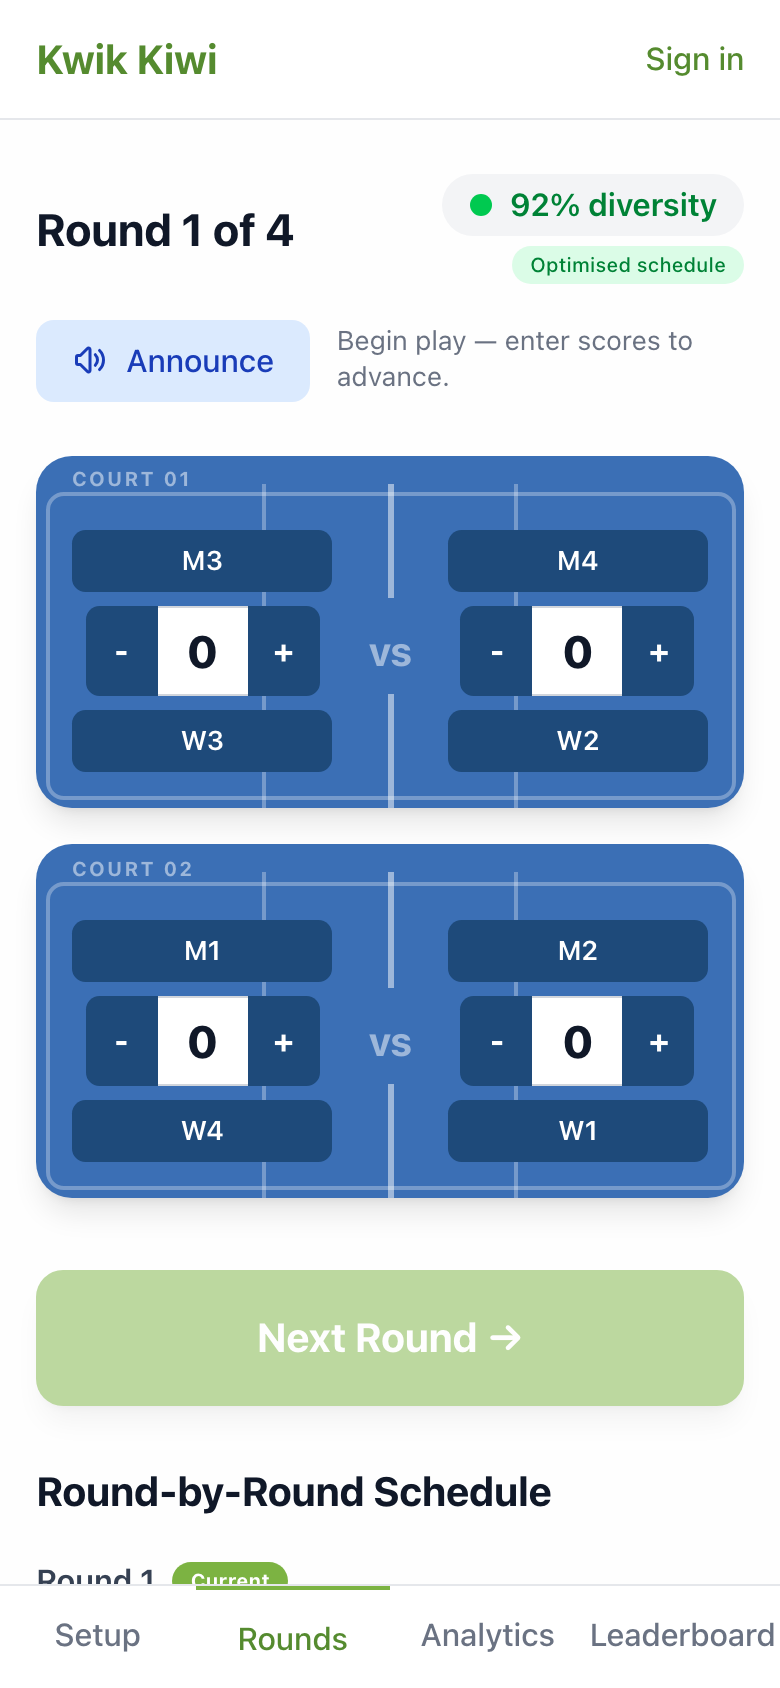
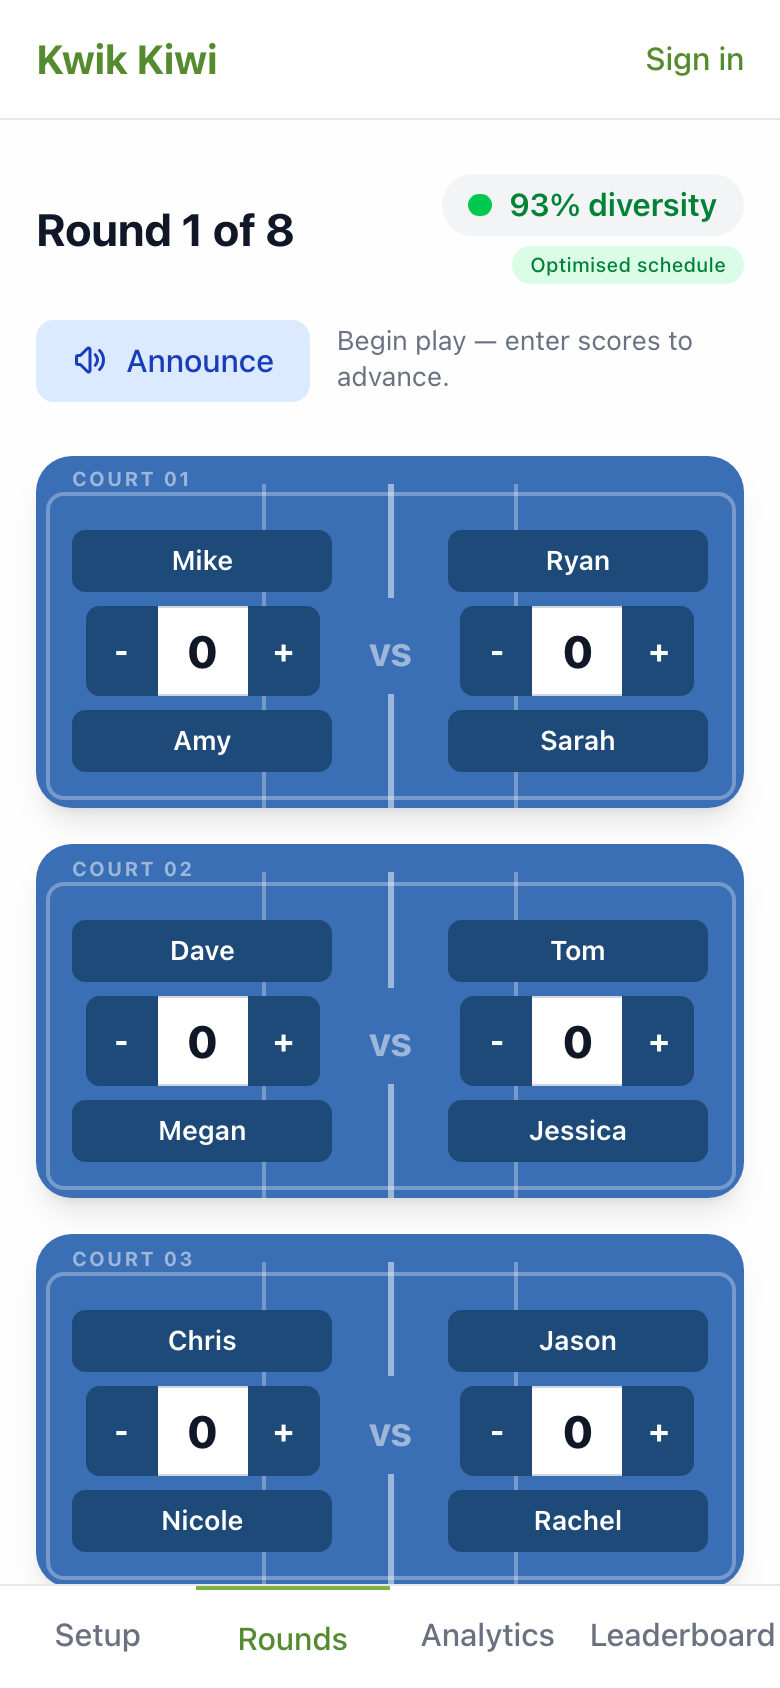
Add Kwik Kiwi screenshots: splash, roster, leaderboard, partner matrix, optimality

diff --git a/README.md b/README.md
@@ -13,12 +13,21 @@ Most of my code lives in private repos. Source is available on request.
 **[Try it live](https://quick-kiwi-round-robin.vercel.app)**
 
 <p>
-  <img src="images/kwik-kiwi-rounds.png" width="240" alt="Kwik Kiwi round view with court cards and scoring">
-  &nbsp;
-  <img src="images/kwik-kiwi-analytics.png" width="240" alt="Kwik Kiwi schedule analytics">
+  <img src="images/kwik-kiwi-splash.jpg" width="190" alt="Kwik Kiwi splash screen">
+  <img src="images/kwik-kiwi-roster.png" width="190" alt="Pasted roster with automatic gender sorting; uncertain names flagged">
+  <img src="images/kwik-kiwi-rounds.png" width="190" alt="Round view with court cards and scoring">
+  <img src="images/kwik-kiwi-leaderboard.png" width="190" alt="Live leaderboard">
 </p>
 
 Builds round-robin schedules that maximize partner and opponent variety. For mixed doubles with prime-power player counts, a Galois field construction guarantees every man partners with every woman exactly once. For other counts and open doubles, simulated annealing searches partnerships and court groupings together.
+
+<img src="images/kwik-kiwi-partner-matrix.png" width="560" alt="Partner frequency matrix, all ones">
+
+*8 men, 8 women, 8 rounds: every man partners every woman exactly once.*
+
+<img src="images/kwik-kiwi-optimality.png" width="560" alt="Schedule optimality breakdown">
+
+*Every schedule is scored on partner and opponent variety, and the app shows exactly where it falls short.*
 
 - Runs a local game offline, or a public tournament that players join from their phones by code or QR
 - Live scoring, court announcements with text-to-speech, analytics, and a leaderboard
